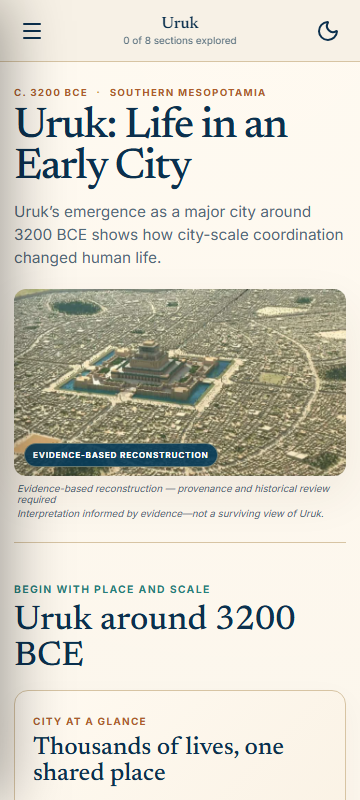
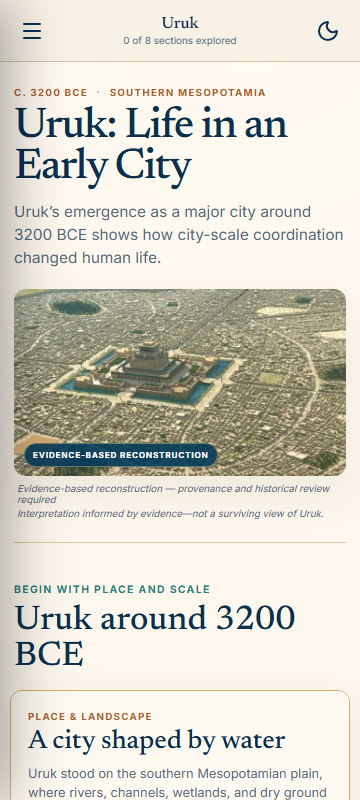
Complete historical map presentation

Changed region(s): [[0.0611, 0.875, 0.9167, 1.0], [0.9472, 0.875, 0.9778, 1.0]]

diff --git a/src/learn/learn.css b/src/learn/learn.css
@@ -42,8 +42,13 @@ h1,h2,h3{font-family:Newsreader,Georgia,serif;font-weight:500}
 .knowledge-block{display:grid;grid-template-columns:minmax(240px,.9fr) 1.35fr;gap:30px;padding:26px;border:1px solid var(--line);border-radius:14px;background:linear-gradient(135deg,var(--surface),color-mix(in srgb,var(--surface-2) 52%,var(--surface)));box-shadow:0 10px 30px #4b321c0a}.module-heading>span{color:var(--bronze);text-transform:uppercase;letter-spacing:.12em;font-size:.63rem;font-weight:700}.module-heading h3{font-size:1.75rem;line-height:1.05;margin:7px 0 9px}.module-heading p{font-size:.86rem;line-height:1.55;color:var(--muted);margin:0}.knowledge-block dl{display:grid;grid-template-columns:repeat(3,1fr);gap:1px;margin:0;border:1px solid var(--line);border-radius:10px;overflow:hidden;background:var(--line)}.knowledge-block dl>div{padding:16px 14px;background:var(--surface)}.knowledge-block dt{text-transform:uppercase;letter-spacing:.11em;font-size:.58rem;font-weight:700;color:var(--teal)}.knowledge-block dd{font:500 1rem/1.3 Newsreader,serif;margin:7px 0 0}
 .scene-module{border:1px solid var(--line);border-radius:14px;background:var(--surface);box-shadow:var(--shadow);overflow:hidden}.scene-module summary{min-height:148px;padding:13px;display:grid;grid-template-columns:190px 1fr 32px;gap:23px;align-items:center;list-style:none;cursor:pointer}.scene-module summary::-webkit-details-marker{display:none}.scene-thumb{height:122px;border-radius:10px;overflow:hidden}.scene-thumb img{width:100%;height:100%;object-fit:cover}.scene-module summary small,.connection-module small{display:block;color:var(--teal);text-transform:uppercase;letter-spacing:.12em;font-size:.62rem;font-weight:700}.scene-module summary strong{display:block;font:500 1.65rem Newsreader,serif;margin:6px 0}.scene-module summary em{display:block;max-width:54ch;color:var(--muted);font-size:.8rem;line-height:1.5;font-style:normal}.scene-module[open] summary>svg{transform:rotate(90deg)}.scene-details{display:grid;grid-template-columns:1.2fr 1fr;gap:0;border-top:1px solid var(--line)}.scene-details>img{width:100%;height:100%;min-height:310px;object-fit:cover}.scene-details ol{list-style:none;margin:0;padding:22px}.scene-details li{display:grid;grid-template-columns:28px 1fr;gap:10px;padding:12px 0;border-bottom:1px solid var(--line)}.scene-details li:last-child{border:0}.scene-details li>span{width:25px;height:25px;border-radius:50%;display:grid;place-items:center;background:var(--archive);color:#fff;font-size:.7rem}.scene-details strong{font:500 1.05rem Newsreader,serif}.scene-details p{font-size:.76rem;line-height:1.45;color:var(--muted);margin:3px 0 0}
 .evidence-module{display:grid;grid-template-columns:minmax(280px,.9fr) 1.2fr;margin:0;border:1px solid var(--line);border-radius:14px;overflow:hidden;background:var(--surface);box-shadow:var(--shadow)}.evidence-image{position:relative;min-height:340px;background:#d9cdb9}.evidence-image img{width:100%;height:100%;position:absolute;inset:0;object-fit:cover}.evidence-image>span{position:absolute;left:14px;bottom:14px;border-radius:99px;padding:7px 10px;background:var(--teal);color:#fff;text-transform:uppercase;letter-spacing:.1em;font-size:.58rem;font-weight:700}.evidence-module figcaption{padding:28px}.evidence-type{display:flex;align-items:center;gap:8px;color:var(--teal);text-transform:uppercase;letter-spacing:.12em;font-size:.61rem;font-weight:700}.evidence-type svg{width:18px}.evidence-module h3{font-size:2rem;line-height:1.05;margin:12px 0 10px}.evidence-module figcaption>p{font-size:.89rem;line-height:1.6;color:var(--muted)}.evidence-module dl{margin:19px 0 0;border-top:1px solid var(--line)}.evidence-module dl>div{display:grid;grid-template-columns:105px 1fr;gap:12px;padding:8px 0;border-bottom:1px solid var(--line);font-size:.68rem}.evidence-module dt{text-transform:uppercase;letter-spacing:.08em;font-weight:700;color:var(--ink)}.evidence-module dd{margin:0;color:var(--muted);text-transform:capitalize}
-.historical-map{margin:4px 0 0}.historical-map>img{display:block;width:100%;height:auto;border:1px solid color-mix(in srgb,var(--gold) 55%,var(--line));border-radius:16px;background:#f5ead2;box-shadow:0 18px 44px #4b321c12}
-.section-has-historical-map .section-modules{position:relative;display:grid;grid-template-columns:minmax(280px,.72fr) minmax(0,1.28fr);gap:0;overflow:hidden;border:1px solid color-mix(in srgb,var(--gold) 58%,var(--line));border-radius:16px;background:var(--surface);box-shadow:0 18px 44px #4b321c12}.section-has-historical-map .knowledge-block{position:relative;z-index:2;display:block;align-self:stretch;min-width:0;padding:27px 16px 25px 26px;border:0;border-radius:0;background:var(--surface);box-shadow:none}.section-has-historical-map .knowledge-block:after{content:"";position:absolute;z-index:-1;top:0;bottom:0;left:100%;width:86px;background:linear-gradient(90deg,var(--surface) 12%,transparent);pointer-events:none}.section-has-historical-map .knowledge-block dl{display:grid;grid-template-columns:1fr;gap:0;margin:18px 0 0;border:0;border-top:1px solid var(--line);border-radius:0;background:transparent}.section-has-historical-map .knowledge-block dl>div{display:grid;grid-template-columns:82px 1fr;gap:10px;padding:9px 0;border-bottom:1px solid var(--line);background:transparent}.section-has-historical-map .knowledge-block dl>div:last-child{border-bottom:0}.section-has-historical-map .knowledge-block dd{margin:0}.section-has-historical-map .historical-map{z-index:1;min-width:0;margin:0;background:#f5ead2}.section-has-historical-map .historical-map>img{width:100%;height:100%;min-height:340px;object-fit:cover;object-position:right center;border:0;border-radius:0;box-shadow:none}
+.historical-map{display:grid;grid-template-columns:minmax(270px,.72fr) minmax(0,1.28fr);margin:4px 0 0;overflow:hidden;border:1px solid color-mix(in srgb,var(--gold) 58%,var(--line));border-radius:16px;background:var(--surface);box-shadow:0 18px 44px #4b321c12}
+.historical-map__caption{position:relative;z-index:2;min-width:0;padding:25px 18px 22px 25px;background:var(--surface)}.historical-map__caption:after{content:"";position:absolute;z-index:-1;top:0;bottom:0;left:100%;width:72px;background:linear-gradient(90deg,var(--surface) 8%,transparent);pointer-events:none}.historical-map__eyebrow{display:block;color:var(--bronze);text-transform:uppercase;letter-spacing:.13em;font-size:.61rem;font-weight:700}.historical-map__caption h3{margin:7px 0 8px;font-size:1.8rem;line-height:1.03}.historical-map__body{margin:0;color:var(--muted);font-size:.8rem;line-height:1.52}
+.historical-map__context{display:grid;grid-template-columns:repeat(2,minmax(0,1fr));gap:0;margin:15px 0 0;border-top:1px solid var(--line)}.historical-map__context>div{min-width:0;padding:8px 6px 7px 0;border-bottom:1px solid var(--line)}.historical-map__context dt{color:var(--teal);text-transform:uppercase;letter-spacing:.09em;font-size:.54rem;font-weight:700}.historical-map__context dd{margin:3px 0 0;color:var(--ink);font:500 .82rem/1.25 Newsreader,serif}
+.historical-map__confidence{margin-top:12px}.historical-map__confidence p{display:grid;grid-template-columns:8px 1fr;column-gap:8px;margin:8px 0}.historical-map__confidence p:before{content:"";grid-row:1/3;width:7px;height:7px;margin-top:4px;border-radius:50%;background:var(--teal)}.historical-map__confidence .historical-map__uncertainty:before{border:1px dashed var(--bronze);background:transparent}.historical-map__confidence strong{font-size:.65rem;line-height:1.3}.historical-map__confidence span{color:var(--muted);font-size:.63rem;line-height:1.4}
+.historical-map__provenance{margin-top:12px;padding-top:10px;border-top:1px solid var(--line);font-size:.59rem;line-height:1.45;color:var(--muted)}.historical-map__provenance>strong{display:block;margin-bottom:4px;color:var(--ink);text-transform:uppercase;letter-spacing:.08em;font-size:.54rem}.historical-map__provenance ul{display:flex;flex-wrap:wrap;gap:0;margin:0;padding:0;list-style:none}.historical-map__provenance li:not(:last-child):after{content:" · ";padding:0 3px;color:var(--gold)}.historical-map__provenance a{color:var(--teal);text-underline-offset:2px}
+.historical-map__artwork{position:relative;z-index:1;min-width:0;display:flex;align-items:center;background:#f5ead2}.historical-map__artwork img{display:block;width:100%;height:auto;object-fit:contain;background:#f5ead2}.historical-map__artwork>span{position:absolute;right:10px;bottom:9px;padding:5px 7px;border:1px solid #dec38d;border-radius:99px;background:#fff8e8e8;color:#705334;text-transform:uppercase;letter-spacing:.08em;font-size:.48rem;font-weight:700}
+.section-has-historical-map .section-modules{display:block}
 .sr-only{position:absolute!important;width:1px!important;height:1px!important;padding:0!important;margin:-1px!important;overflow:hidden!important;clip:rect(0,0,0,0)!important;white-space:nowrap!important;border:0!important}
 .connection-module{display:grid;grid-template-columns:74px 1fr 36px;gap:20px;align-items:center;padding:22px 24px;border:1px solid var(--line);border-radius:14px;background:var(--surface)}.connection-icon{width:64px;height:64px;border:1px solid var(--gold);border-radius:50%;display:grid;place-items:center;color:var(--archive)}.connection-icon svg{width:30px}.connection-module h3{font-size:1.7rem;margin:5px 0}.connection-module p{margin:0;color:var(--muted);font-size:.85rem;line-height:1.5}.connection-arrow{color:var(--bronze)}
 .section-prompt{padding-top:60px}.section-prompt .section-heading{padding-bottom:18px;border-bottom:1px solid var(--line)}.prompt{border:1px solid var(--line);background:var(--surface);border-radius:14px;padding:23px;margin:0}.prompt legend,.prompt>label>strong{font:500 1.32rem/1.35 Newsreader,serif;color:var(--ink)}.prompt label{display:flex;gap:11px;align-items:flex-start;padding:10px 0;min-height:44px;font-size:.86rem}.prompt input{width:19px;height:19px;accent-color:var(--teal)}.prompt textarea{width:100%;min-height:120px;border:1px solid var(--line);border-radius:9px;background:var(--page);color:var(--ink);padding:13px;margin:14px 0 6px;font-size:.9rem}.prompt>small{color:var(--muted);font-size:.7rem}.feedback{border-left:3px solid var(--teal);background:color-mix(in srgb,var(--teal) 10%,var(--surface));padding:12px 14px;line-height:1.5;font-size:.8rem}
@@ -58,5 +63,5 @@ h1,h2,h3{font-family:Newsreader,Georgia,serif;font-weight:500}
 @media(prefers-reduced-motion:reduce){html{scroll-behavior:auto}.journey-rail,.learn-scrim,.section-nav button{transition:none}}
 .card-kind{display:block;margin-top:7px;color:var(--teal);text-transform:uppercase;letter-spacing:.11em;font-size:.5rem;font-weight:700}
 .card-reveal{scroll-margin-top:76px}
-@media(max-width:700px){.section-has-historical-map .section-modules{grid-template-columns:1fr}.section-has-historical-map .knowledge-block{padding:22px 19px 16px}.section-has-historical-map .knowledge-block:after{z-index:1;top:100%;bottom:auto;left:0;width:100%;height:44px;background:linear-gradient(180deg,var(--surface),transparent)}.section-has-historical-map .historical-map{margin-top:-1px}.section-has-historical-map .historical-map>img{height:auto;min-height:0;object-fit:contain}}
-@media(max-width:620px){.historical-map{margin-inline:-4px}.historical-map>img{border-radius:12px}.section-has-historical-map .historical-map{margin-inline:0}.section-has-historical-map .historical-map>img{border-radius:0}}
+@media(max-width:1180px){.historical-map{grid-template-columns:1fr}.historical-map__caption{display:grid;grid-template-columns:1.08fr .92fr;grid-template-rows:auto auto auto auto auto;column-gap:26px;padding:20px 24px 17px}.historical-map__caption:after{z-index:1;top:100%;bottom:auto;left:0;width:100%;height:38px;background:linear-gradient(180deg,var(--surface),transparent)}.historical-map__eyebrow{grid-column:1;grid-row:1}.historical-map__caption h3{grid-column:1;grid-row:2}.historical-map__body{grid-column:1;grid-row:3;max-width:70ch}.historical-map__context{grid-column:2;grid-row:1/4;grid-template-columns:repeat(2,minmax(0,1fr));align-self:start;gap:0;margin:0}.historical-map__confidence{grid-column:1/-1;grid-row:4;display:grid;grid-template-columns:1fr 1fr;gap:16px}.historical-map__provenance{grid-column:1/-1;grid-row:5;display:flex;align-items:baseline;gap:10px}.historical-map__provenance>strong{flex:0 0 auto;margin:0}.historical-map__artwork img{height:auto;min-height:0;object-fit:contain}}
+@media(max-width:620px){.historical-map{margin-inline:-4px;border-radius:12px}.historical-map__caption{display:block;padding:20px 17px 16px}.historical-map__caption h3{font-size:1.65rem}.historical-map__context{grid-template-columns:repeat(2,minmax(0,1fr));gap:0;margin-top:15px}.historical-map__confidence{display:block}.historical-map__provenance{display:block}.historical-map__provenance>strong{margin-bottom:4px}.historical-map__artwork>span{right:7px;bottom:6px;font-size:.43rem}}

diff --git a/tests/learn/LearnApp.test.tsx b/tests/learn/LearnApp.test.tsx
@@ -1,7 +1,7 @@
 // @vitest-environment jsdom
 import React from 'react';
 import { afterEach, beforeEach, describe, expect, it, vi } from 'vitest';
-import { cleanup, fireEvent, render, screen, waitFor } from '@testing-library/react';
+import { cleanup, fireEvent, render, screen, waitFor, within } from '@testing-library/react';
 import userEvent from '@testing-library/user-event';
 import { LearnApp } from '../../src/learn/LearnApp';
 import { lessonIdFromPath } from '../../src/learn/route';
@@ -24,8 +24,35 @@ afterEach(() => cleanup());
 describe('Learn route and interactions', () => {
   it('parses the stable route and rejects unrelated paths', () => { expect(lessonIdFromPath('/learn/lesson.uruk.first-city')).toBe('lesson.uruk.first-city'); expect(lessonIdFromPath('/legacy')).toBeNull(); });
   it('renders an invalid lesson state', () => { render(<LearnApp lessonId="lesson.unknown" />); expect(screen.getByRole('heading', { name: /archive entry isn’t available/i })).toBeTruthy(); });
-  it('renders the decoded-asset contract and typed editorial modules', async () => { const gateway = new TestGateway(); render(<LearnApp lessonId="lesson.uruk.first-city" gatewayFactory={async () => gateway} />); expect(await screen.findByRole('heading', { name: 'Uruk: Life in an Early City' })).toBeTruthy(); const hero = document.querySelector('.hero-image'); expect(hero?.getAttribute('aria-label')).toMatch(/aerial evidence-based reconstruction/i); expect(hero?.getAttribute('style')).toContain('/images/places/uruk-reconstruction.webp'); const probe = document.querySelector('.hero-probe'); expect(probe?.getAttribute('src')).toBe('/images/places/uruk-reconstruction.webp'); expect(probe?.getAttribute('width')).toBe('1600'); expect(probe?.getAttribute('height')).toBe('800'); expect(screen.getByText('City at a glance')).toBeTruthy(); expect(screen.getAllByText('From the evidence room')).toHaveLength(2); expect(screen.getByText('This lesson opens')).toBeTruthy(); expect(screen.getByRole('heading', { name: 'World Check' })).toBeTruthy(); });
-  it('renders the generated historical map inside the opening content card', async () => { const gateway = new TestGateway(); render(<LearnApp lessonId="lesson.uruk.first-city" gatewayFactory={async () => gateway} />); await screen.findByRole('heading', { name: 'Uruk: Life in an Early City' }); const image=screen.getByAltText(/Illustrated map of the southern Mesopotamian plain/i);expect(image.getAttribute('src')).toBe('/images/maps/uruk-southern-mesopotamia-map.webp');expect(image.getAttribute('width')).toBe('1732');expect(image.getAttribute('height')).toBe('908');expect(image.closest('[data-section-id]')?.getAttribute('data-section-id')).toBe('section.uruk.masthead');expect(screen.queryByRole('button',{name:'A city shaped by water'})).toBeNull(); });
+  it('renders the decoded-asset contract and typed editorial modules', async () => { const gateway = new TestGateway(); render(<LearnApp lessonId="lesson.uruk.first-city" gatewayFactory={async () => gateway} />); expect(await screen.findByRole('heading', { name: 'Uruk: Life in an Early City' })).toBeTruthy(); const hero = document.querySelector('.hero-image'); expect(hero?.getAttribute('aria-label')).toMatch(/aerial evidence-based reconstruction/i); expect(hero?.getAttribute('style')).toContain('/images/places/uruk-reconstruction.webp'); const probe = document.querySelector('.hero-probe'); expect(probe?.getAttribute('src')).toBe('/images/places/uruk-reconstruction.webp'); expect(probe?.getAttribute('width')).toBe('1600'); expect(probe?.getAttribute('height')).toBe('800'); expect(screen.getByText('Place & landscape')).toBeTruthy(); expect(screen.getAllByText('From the evidence room')).toHaveLength(2); expect(screen.getByText('This lesson opens')).toBeTruthy(); expect(screen.getByRole('heading', { name: 'World Check' })).toBeTruthy(); });
+  it('renders the complete historical map caption and visible provenance language', async () => {
+    const gateway = new TestGateway();
+    render(<LearnApp lessonId="lesson.uruk.first-city" gatewayFactory={async () => gateway} />);
+    await screen.findByRole('heading', { name: 'Uruk: Life in an Early City' });
+    const image = screen.getByAltText(/Illustrated map of the southern Mesopotamian plain/i);
+    const figure = image.closest('figure')!;
+    const map = within(figure);
+
+    expect(image.getAttribute('src')).toBe('/images/maps/uruk-southern-mesopotamia-map.webp');
+    expect(image.getAttribute('width')).toBe('1732');
+    expect(image.getAttribute('height')).toBe('908');
+    expect(image.closest('[data-section-id]')?.getAttribute('data-section-id')).toBe('section.uruk.masthead');
+    expect(map.getByRole('heading', { name: 'A city shaped by water' })).toBeTruthy();
+    expect(map.getByText('c. 3200 BCE')).toBeTruthy();
+    expect(map.getByText('Near modern Warka, Iraq')).toBeTruthy();
+    expect(map.getByText('Illustrative Reconstruction')).toBeTruthy();
+    const uncertainty = map.getByText(/City locations follow UNESCO World Heritage coordinates/);
+    const verifiedCities = map.getByText(/Uruk, Ur, and Eridu follow official UNESCO World Heritage coordinates/);
+    const provenance = map.getByText('Geographic references');
+    expect(uncertainty.hidden).toBe(false);
+    expect(verifiedCities.hidden).toBe(false);
+    expect(provenance.hidden).toBe(false);
+    expect(uncertainty.closest('.sr-only')).toBeNull();
+    expect(verifiedCities.closest('.sr-only')).toBeNull();
+    expect(provenance.closest('.sr-only')).toBeNull();
+    expect(map.getAllByRole('link', { name: 'UNESCO World Heritage Centre' })).toHaveLength(2);
+    expect(map.getByText(/Uruk lies northwest of Ur and Eridu/).classList.contains('sr-only')).toBe(true);
+  });
   it('opens the native Explore the Scene field guide', async () => { const gateway = new TestGateway(); render(<LearnApp lessonId="lesson.uruk.first-city" gatewayFactory={async () => gateway} />); await screen.findByRole('heading', { name: 'Uruk: Life in an Early City' }); const title = screen.getByText('Explore the scene'); const details = title.closest('details'); expect(details?.hasAttribute('open')).toBe(false); await userEvent.click(title); expect(details?.hasAttribute('open')).toBe(true); expect(screen.getByText('Monumental precinct')).toBeTruthy(); });
   it('offers retry after progress load failure', async () => { const gateway = new TestGateway(); gateway.load.mockRejectedValueOnce(new Error('offline')).mockResolvedValueOnce(gateway.state); render(<LearnApp lessonId="lesson.uruk.first-city" gatewayFactory={async () => gateway} />); await screen.findByRole('button', { name: 'Retry loading progress' }); await userEvent.click(screen.getByRole('button', { name: 'Retry loading progress' })); expect(await screen.findByRole('heading', { name: 'Uruk: Life in an Early City' })).toBeTruthy(); expect(gateway.load).toHaveBeenCalledTimes(2); });
   it('closes the mobile drawer with Escape and returns focus', async () => { const gateway = new TestGateway(); render(<LearnApp lessonId="lesson.uruk.first-city" gatewayFactory={async () => gateway} />); await screen.findByRole('heading', { name: 'Uruk: Life in an Early City' }); const open = screen.getByRole('button', { name: 'Open journey' }); await userEvent.click(open); expect(screen.getByRole('dialog', { name: 'World History journey' })).toBeTruthy(); fireEvent.keyDown(document, { key: 'Escape' }); expect(open).toBe(document.activeElement); });

diff --git a/src/learn/HistoricalMapModule.tsx b/src/learn/HistoricalMapModule.tsx
@@ -1,7 +1,50 @@
-import type { HistoricalMapModule as HistoricalMapData, MediaAsset } from '../domains/contracts';
+import type { HistoricalMapModule as HistoricalMapData, MediaAsset, Source } from '../domains/contracts';
 
-export function HistoricalMapModule({ module, media }: { module: HistoricalMapData; media: MediaAsset }) {
-  return <figure className="historical-map" aria-label={module.title}>
-    <img src={media.path} alt={media.alt} width="1732" height="908" loading="lazy" decoding="async" />
+type HistoricalMapModuleProps = {
+  module: HistoricalMapData;
+  media: MediaAsset;
+  sources: Source[];
+};
+
+const depictionLabel = (status: HistoricalMapData['depictionStatus']) => status
+  .split('-')
+  .map((word) => word[0].toUpperCase() + word.slice(1))
+  .join(' ');
+
+export function HistoricalMapModule({ module, media, sources }: HistoricalMapModuleProps) {
+  const titleId = `${module.id}-title`;
+  const summaryId = `${module.id}-summary`;
+  const uncertaintyId = `${module.id}-uncertainty`;
+  const provenanceId = `${module.id}-provenance`;
+
+  return <figure className="historical-map" aria-labelledby={titleId} aria-describedby={`${summaryId} ${uncertaintyId} ${provenanceId}`}>
+    <figcaption className="historical-map__caption">
+      <span className="historical-map__eyebrow">{module.eyebrow}</span>
+      <h3 id={titleId}>{module.title}</h3>
+      <p className="historical-map__body">{module.body}</p>
+
+      <dl className="historical-map__context">
+        <div><dt>Period</dt><dd>{module.periodLabel}</dd></div>
+        <div><dt>Focus</dt><dd>{module.focusPlace}</dd></div>
+        <div><dt>Today</dt><dd>{module.modernContext}</dd></div>
+        <div><dt>Status</dt><dd>{depictionLabel(module.depictionStatus)}</dd></div>
+      </dl>
+
+      <div className="historical-map__confidence">
+        <p><strong>Coordinate-verified cities</strong><span>Uruk, Ur, and Eridu follow official UNESCO World Heritage coordinates.</span></p>
+        <p id={uncertaintyId} className="historical-map__uncertainty"><strong>Approximate ancient landscape</strong><span>{module.uncertaintyNote}</span></p>
+      </div>
+
+      <div id={provenanceId} className="historical-map__provenance">
+        <strong>Geographic references</strong>
+        <ul>{sources.map((source) => <li key={source.id}><a href={source.url} target="_blank" rel="noreferrer">{source.publisher}</a></li>)}</ul>
+      </div>
+    </figcaption>
+
+    <div className="historical-map__artwork">
+      <img src={media.path} alt={media.alt} width="1732" height="908" loading="lazy" decoding="async" />
+      <span aria-hidden="true">Illustrative reconstruction</span>
+    </div>
+    <p id={summaryId} className="sr-only">{module.accessibleSummary}</p>
   </figure>;
 }

diff --git a/index.html b/index.html
@@ -4,35 +4,43 @@
     <meta charset="UTF-8" />
     <meta name="viewport" content="width=device-width, initial-scale=1.0" />
     <title>Chronos Learning</title>
-    <script src="https://cdn.tailwindcss.com"></script>
-    <link rel="preconnect" href="https://fonts.googleapis.com">
-    <link rel="preconnect" href="https://fonts.gstatic.com" crossorigin>
-    <link href="https://fonts.googleapis.com/css2?family=Inter:wght@300;400;500;600&family=JetBrains+Mono:wght@400;500;700&family=Space+Grotesk:wght@300;400;500;600;700&display=swap" rel="stylesheet">
     <script>
-      if (window.tailwind) window.tailwind.config = {
-        theme: {
-          extend: {
-            fontFamily: {
-              sans: ['Inter', 'sans-serif'],
-              display: ['Space Grotesk', 'sans-serif'],
-              mono: ['JetBrains Mono', 'monospace'],
-            },
-            colors: {
-              stone: {
-                50: '#fafaf9',
-                100: '#f5f5f4',
-                200: '#e7e5e4',
-                300: '#d6d3d1',
-                400: '#a8a29e',
-                500: '#78716c',
-                600: '#57534e',
-                700: '#44403c',
-                800: '#292524',
-                900: '#1c1917',
+      if (!window.location.pathname.startsWith('/learn/')) {
+        const fonts = document.createElement('link');
+        fonts.rel = 'stylesheet';
+        fonts.href = 'https://fonts.googleapis.com/css2?family=Inter:wght@300;400;500;600&family=JetBrains+Mono:wght@400;500;700&family=Space+Grotesk:wght@300;400;500;600;700&display=swap';
+        document.head.append(fonts);
+
+        const tailwind = document.createElement('script');
+        tailwind.src = 'https://cdn.tailwindcss.com';
+        tailwind.addEventListener('load', () => {
+          if (window.tailwind) window.tailwind.config = {
+            theme: {
+              extend: {
+                fontFamily: {
+                  sans: ['Inter', 'sans-serif'],
+                  display: ['Space Grotesk', 'sans-serif'],
+                  mono: ['JetBrains Mono', 'monospace'],
+                },
+                colors: {
+                  stone: {
+                    50: '#fafaf9',
+                    100: '#f5f5f4',
+                    200: '#e7e5e4',
+                    300: '#d6d3d1',
+                    400: '#a8a29e',
+                    500: '#78716c',
+                    600: '#57534e',
+                    700: '#44403c',
+                    800: '#292524',
+                    900: '#1c1917',
+                  }
+                }
               }
-            }
-          },
-        },
+            },
+          };
+        });
+        document.head.append(tailwind);
       }
     </script>
   <script type="importmap">

diff --git a/content/uruk.ts b/content/uruk.ts
@@ -35,7 +35,7 @@ export const lessons: Lesson[] = [
     id: 'lesson.uruk.first-city', legacyAliases: ['uruk'], title: 'Uruk: Life in an Early City', masthead: 'c. 3200 BCE', chronology: { startYear: -3500, endYear: -3000, display: 'approximately 3500–3000 BCE', approximate: true }, significance: 'Uruk’s emergence as a major city around 3200 BCE shows how city-scale coordination changed human life.',
     sectionIdsRequired: ['section.uruk.masthead', 'section.uruk.opening-city-question', 'section.uruk.water-food-and-labor', 'section.uruk.the-built-city', 'section.uruk.tablets-and-administration', 'section.uruk.evidence-and-reconstruction', 'section.uruk.connections', 'section.uruk.check-and-complete'],
     sections: [
-      { id: 'section.uruk.masthead', heading: 'Uruk around 3200 BCE', purpose: 'Begin with place and scale', modules: [{ id: 'module.uruk.city-glance', type: 'knowledge', eyebrow: 'City at a glance', title: 'Thousands of lives, one shared place', body: 'Uruk grew into a major southern Mesopotamian city where food, work, worship, and record-keeping had to be coordinated at a new scale.', items: [{ label: 'Place', detail: 'Southern Mesopotamia' }, { label: 'Chronology', detail: 'c. 3200 BCE' }, { label: 'Big idea', detail: 'Coordination changed city life' }], claimIds: ['claim.uruk.city-life'], sourceIds: ['source.met.uruk'] }, {
+      { id: 'section.uruk.masthead', heading: 'Uruk around 3200 BCE', purpose: 'Begin with place and scale', modules: [{
         id: 'module.uruk.southern-mesopotamia-map', type: 'historical-map', eyebrow: 'Place & landscape', title: 'A city shaped by water',
         body: 'Uruk stood on the southern Mesopotamian plain, where rivers, channels, wetlands, and dry ground shifted over generations. Its position connected fields and settlements while demanding constant coordination around water.',
         mediaId: 'media.uruk.southern-mesopotamia-map', periodLabel: 'c. 3200 BCE', focusPlace: 'Uruk', modernContext: 'Near modern Warka, Iraq',

diff --git a/src/learn/LearnApp.tsx b/src/learn/LearnApp.tsx
@@ -10,6 +10,7 @@ const lesson = urukContent.lessons.find((item) => item.id === 'lesson.uruk.first
 const journey = urukContent.journeys[0];
 const promptById = new Map(urukContent.prompts.map((item) => [item.id, item]));
 const mediaById = new Map(urukContent.media.map((item) => [item.id, item]));
+const sourceById = new Map(urukContent.sources.map((item) => [item.id, item]));
 const card = urukContent.cards[0];
 const reconstruction = mediaById.get('media.uruk.reconstruction')!;
 
@@ -68,7 +69,11 @@ function Module({ module, state, onAttempt }: ModuleProps) {
   }
   if (module.type === 'historical-map') {
     const media = mediaById.get(module.mediaId)!;
-    return <HistoricalMapModule module={module} media={media} />;
+    const sources = module.sourceIds.flatMap((id) => {
+      const source = sourceById.get(id);
+      return source ? [source] : [];
+    });
+    return <HistoricalMapModule module={module} media={media} sources={sources} />;
   }
   if (module.type === 'connection') return <aside className="connection-module"><span className="connection-icon"><ScrollText /></span><div><small>{module.eyebrow}</small><h3>{module.title}</h3><p>{module.body}</p></div><span className="connection-arrow" aria-hidden="true"><ChevronRight /></span></aside>;
   const prompt = promptById.get(module.promptId)!;
